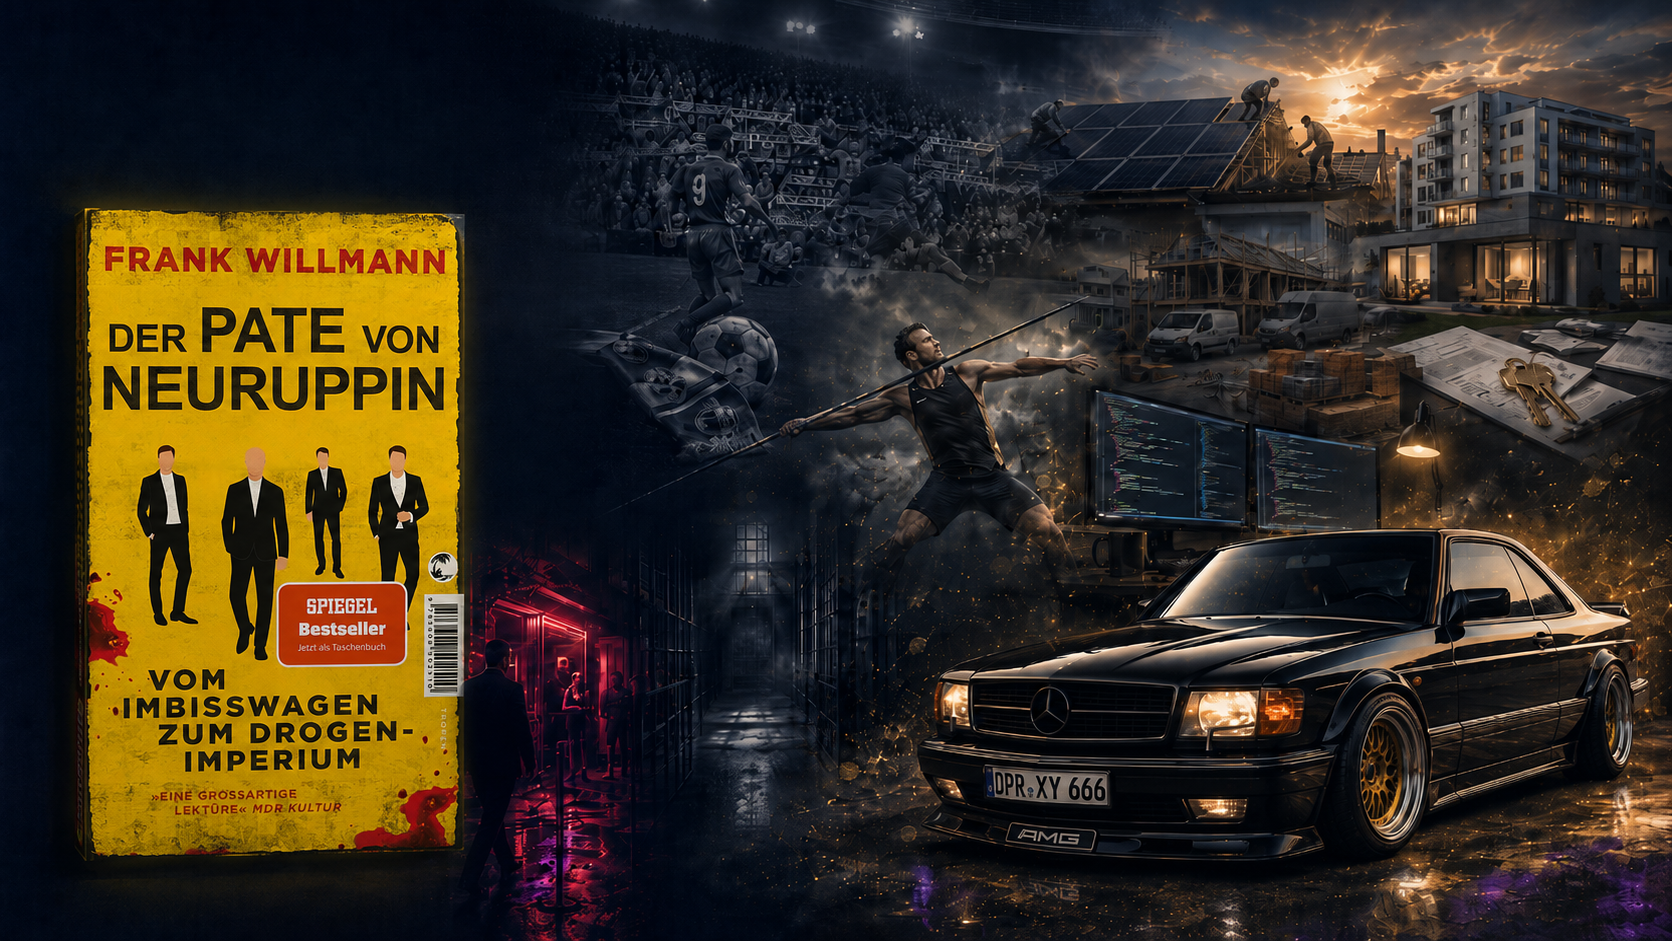
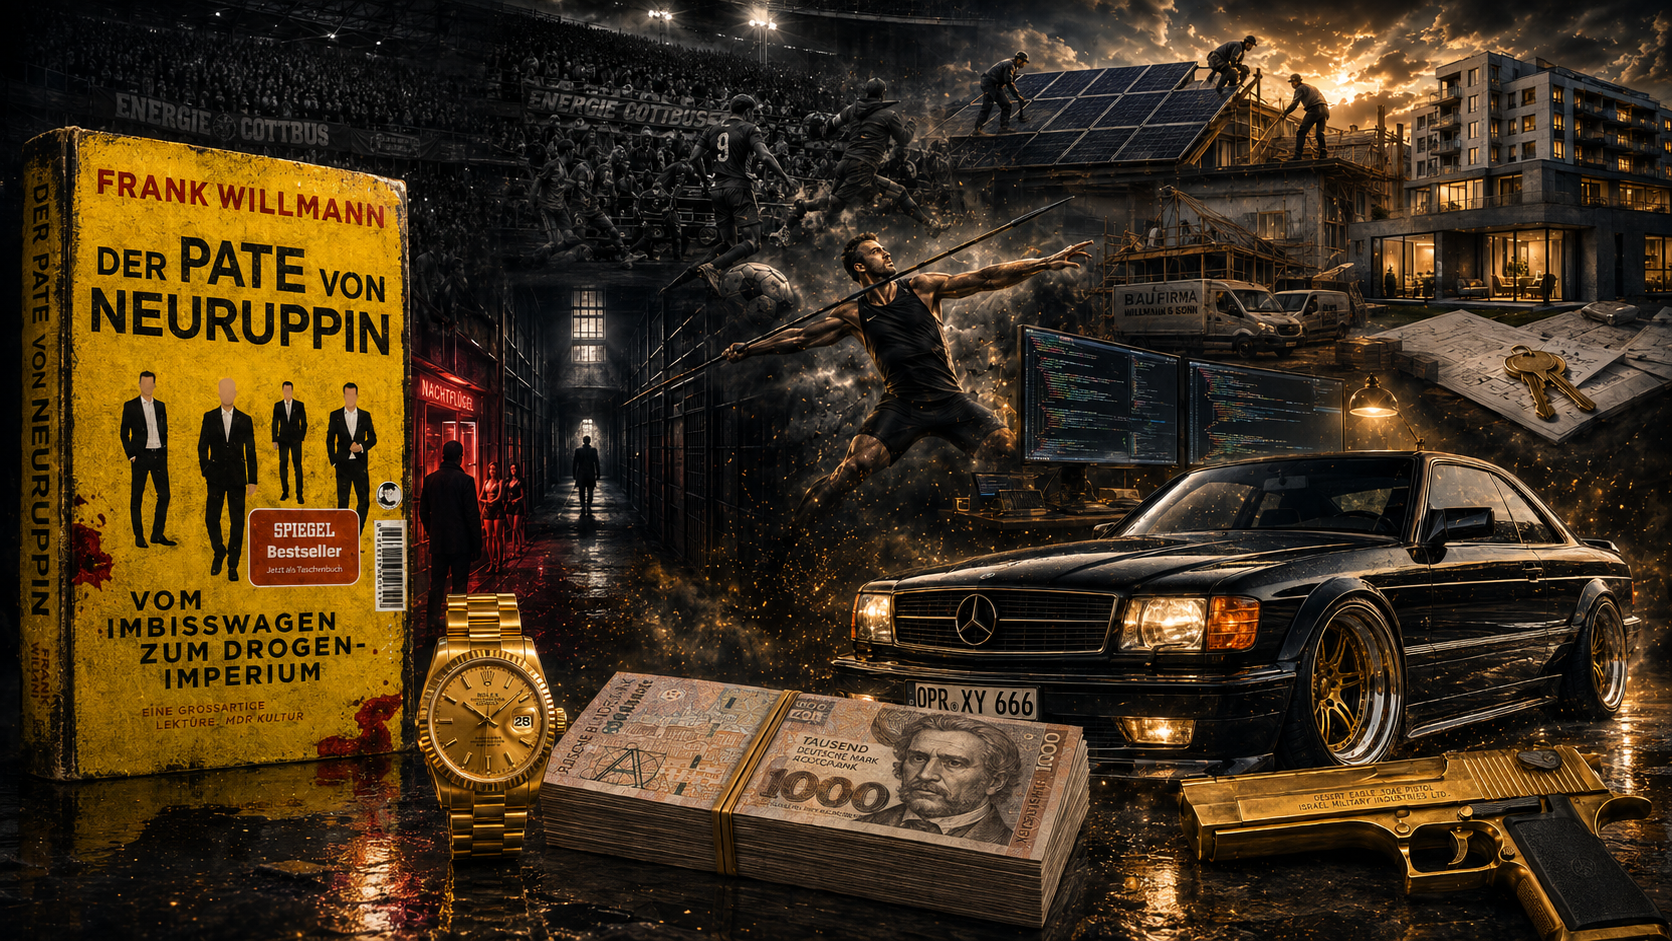
Update secret story image and content

diff --git a/src/App.jsx b/src/App.jsx
@@ -10,154 +10,193 @@ import AddEntryModal from "./components/AddEntryModal";
 import { loadEntries, saveEntries } from "./utils/storage";
 
 function DiaryPage() {
+  const defaultEntries = [
+    {
+      
+  id: 1,
+  title: "Die wahre Geschichte",
+  date: "2026-08-10",
+  image: "/images/wahre-geschichte-collage.png",
+  content:
+    "Mein Leben war nie geradlinig. Es gab Sport, Ehre, Ehrgeiz, Freiheit, Rückschläge, falsche Entscheidungen, Gefängnis, Luxus, schnelle Autos, Drogen, Alkohol, harte Arbeit, große Pläne und immer wieder einen Neuanfang.\n\nVom DDR-Fußball und der Leichtathletik mit Speerwerfen über das Nachtleben bis hin zu Jahren, in denen Luxus, Exzess und ein Leben am Limit eine große Rolle gespielt haben – jede dieser Stationen gehört zu meiner Geschichte. Später habe ich mit MK Solar, BMK Bauservice und BKP Immobilien eigene Unternehmen aufgebaut, Verantwortung übernommen, Erfolge erlebt und auch erfahren, wie schnell sich im Leben wieder alles verändern kann.\n\nHeute beginnt wieder ein völlig neues Kapitel: Programmieren, React, Webentwicklung und künstliche Intelligenz. Noch einmal etwas komplett Neues zu lernen und mich neu zu erfinden, gehört inzwischen genauso zu meinem Leben wie alles, was davor war.\n\nDieses Bild zeigt deshalb nicht nur Erinnerungen. Es zeigt Erfolge und Fehler, gute und schlechte Entscheidungen, Höhen und Tiefen – und vor allem eines: Egal wie oft das Leben mich zurückgeworfen hat, ich bin immer wieder aufgestanden.",
+  secret: true,
+},
+    {
+      id: 2,
+      title: "Der Tag, an dem ich nichts gemacht habe",
+      date: "2026-08-09",
+      image:
+        "https://images.unsplash.com/photo-1507525428034-b723cf961d3e",
+      content:
+        "Ich hatte einen vollen Plan für den Tag. Dann habe ich mich hingesetzt. Das war offenbar mein erster Fehler. Danach war plötzlich Abend.",
+    },
+    {
+      id: 3,
+      title: "Große Pläne. Umsetzung: morgen.",
+      date: "2026-08-08",
+      image:
+        "https://images.unsplash.com/photo-1456324504439-367cee3b3c32",
+      content:
+        "Heute hatte ich ungefähr 14 geniale Ideen. Davon habe ich 13 vergessen und die letzte auf morgen verschoben. Produktiver Tag.",
+    },
+    {
+      id: 4,
+      title: "Heute wollte ich nur kurz CSS ändern",
+      date: "2026-08-07",
+      image:
+        "https://images.unsplash.com/photo-1498050108023-c5249f4df085",
+      content:
+        "Der Plan war simpel: eine Farbe ändern und Feierabend. Drei Stunden später hatte ich die halbe Webseite neu gebaut und wusste nicht mehr, welche Farbe ich eigentlich ändern wollte.",
+    },
+    {
+      id: 5,
+      title: "Git sagte Konflikt",
+      date: "2026-08-06",
+      image:
+        "https://images.unsplash.com/photo-1516321318423-f06f85e504b3",
+      content:
+        "Git meldete einen Konflikt. Ich meldete ebenfalls einen Konflikt. Damit waren wir uns wenigstens in einem Punkt einig.",
+    },
+    {
+      id: 6,
+      title: "Der Bug war natürlich unschuldig",
+      date: "2026-08-05",
+      image:
+        "https://images.unsplash.com/photo-1461749280684-dccba630e2f6",
+      content:
+        "Zwei Stunden gesucht, sämtliche Dateien verdächtigt und kurz über einen Berufswechsel nachgedacht. Am Ende fehlte irgendwo ein einziges Zeichen.",
+    },
+    {
+      id: 7,
+      title: "Nur noch eine kleine Änderung …",
+      date: "2026-08-04",
+      image:
+        "https://images.unsplash.com/photo-1515879218367-8466d910aaa4",
+      content:
+        "Diesen Satz sollte man beim Programmieren eigentlich gesetzlich verbieten. Aus einer kleinen Änderung wurden sieben neue Ideen und drei neue Probleme.",
+    },
+    {
+      id: 8,
+      title: "Heute programmiere ich ohne KI",
+      date: "2026-08-03",
+      image:
+        "https://images.unsplash.com/photo-1677442136019-21780ecad995",
+      content:
+        "Der Vorsatz war stark. Die Motivation ebenfalls. Um 09:07 Uhr war dann allerdings schon die erste Frage an die KI raus.",
+    },
+    {
+      id: 9,
+      title: "Der Kaffee hat heute programmiert",
+      date: "2026-08-02",
+      image:
+        "https://images.unsplash.com/photo-1495474472287-4d71bcdd2085",
+      content:
+        "Ich möchte an dieser Stelle ausdrücklich klarstellen: Ich war lediglich für Tastatur und Maus zuständig. Die eigentliche Arbeit hat der Kaffee gemacht.",
+    },
+    {
+      id: 10,
+      title: "CSS macht, was CSS will",
+      date: "2026-08-01",
+      image:
+        "https://images.unsplash.com/photo-1507238691740-187a5b1d37b8",
+      content:
+        "Ich wollte eine Sache zentrieren. CSS wollte offenbar testen, wie belastbar unsere Beziehung inzwischen ist.",
+    },
+    {
+      id: 11,
+      title: "npm install und beten",
+      date: "2026-07-31",
+      image:
+        "https://images.unsplash.com/photo-1629654297299-c8506221ca97",
+      content:
+        "Es gibt viele professionelle Methoden in der Softwareentwicklung. Eine meiner zuverlässigsten ist weiterhin: npm install eingeben und hoffen.",
+    },
+    {
+      id: 12,
+      title: "Ich ändere wirklich nur diese eine Sache",
+      date: "2026-07-30",
+      image:
+        "https://images.unsplash.com/photo-1484417894907-623942c8ee29",
+      content:
+        "Berühmte letzte Worte. Wenig später waren fünf Dateien geändert und ich konnte mich nicht mehr daran erinnern, womit ich überhaupt angefangen hatte.",
+    },
+    {
+      id: 13,
+      title: "Warum funktioniert das jetzt?",
+      date: "2026-07-29",
+      image:
+        "https://images.unsplash.com/photo-1555066931-4365d14bab8c",
+      content:
+        "Ich habe nichts geändert. Wirklich nichts. Trotzdem funktioniert es plötzlich. Das macht mir ehrlich gesagt mehr Angst als der Fehler vorher.",
+    },
+    {
+      id: 14,
+      title: "Mein Code funktioniert!",
+      date: "2026-07-28",
+      image:
+        "https://images.unsplash.com/photo-1518770660439-4636190af475",
+      content:
+        "Niemand bewegt sich. Niemand klickt etwas an. Niemand aktualisiert irgendein Paket. Dieser Zustand muss konserviert werden.",
+    },
+    {
+      id: 15,
+      title: "Backup? Natürlich habe ich ein Backup",
+      date: "2026-07-27",
+      image:
+        "https://images.unsplash.com/photo-1544197150-b99a580bb7a8",
+      content:
+        "Zumindest glaube ich das. GitHub zählt doch als Backup, oder? Ich entscheide einfach mal: ja.",
+    },
+  ];
+
   const [entries, setEntries] = useState(() => {
     const savedEntries = loadEntries();
 
-    if (savedEntries) {
-      return savedEntries;
+    if (!savedEntries) {
+      return defaultEntries;
     }
 
-    return [
-      {
-        id: 1,
-        title: "Die wahre Geschichte",
-        date: "2026-08-10",
-        image: "/images/wahre-geschichte-collage.png",
-        content:
-          "Das ist meine wahre Geschichte.\n\nHier spiegelt sich mein Leben wider: Sport, Ehrgeiz, Rückschläge, Freiheit, Gefängnis, Autos, harte Arbeit, Unternehmen und ein kompletter Neuanfang.\n\nDDR-Fußballoberliga, Leichtathletik und Speerwerfen, Programmieren, das Nachtleben, Gefängnis, mein schwarzer Mercedes mit goldenen Tiefbettfelgen, MK Solar, BMK Bauservice und BKP Immobilien – all das gehört zu meinem Weg.\n\nDieses Bild steht für Stationen meines Lebens, für Fehler, Erfolge, harte Lektionen und dafür, dass ich immer wieder aufgestanden bin.",
-        secret: true,
-      },
-      {
-        id: 2,
-        title: "Der Tag, an dem ich nichts gemacht habe",
-        date: "2026-08-09",
-        image:
-          "https://images.unsplash.com/photo-1507525428034-b723cf961d3e",
-        content:
-          "Ich hatte einen vollen Plan für den Tag. Dann habe ich mich hingesetzt. Das war offenbar mein erster Fehler. Danach war plötzlich Abend.",
-      },
-      {
-        id: 3,
-        title: "Große Pläne. Umsetzung: morgen.",
-        date: "2026-08-08",
-        image:
-          "https://images.unsplash.com/photo-1456324504439-367cee3b3c32",
-        content:
-          "Heute hatte ich ungefähr 14 geniale Ideen. Davon habe ich 13 vergessen und die letzte auf morgen verschoben. Produktiver Tag.",
-      },
-      {
-        id: 4,
-        title: "Heute wollte ich nur kurz CSS ändern",
-        date: "2026-08-07",
-        image:
-          "https://images.unsplash.com/photo-1498050108023-c5249f4df085",
-        content:
-          "Der Plan war simpel: eine Farbe ändern und Feierabend. Drei Stunden später hatte ich die halbe Webseite neu gebaut und wusste nicht mehr, welche Farbe ich eigentlich ändern wollte.",
-      },
-      {
-        id: 5,
-        title: "Git sagte Konflikt",
-        date: "2026-08-06",
-        image:
-          "https://images.unsplash.com/photo-1516321318423-f06f85e504b3",
-        content:
-          "Git meldete einen Konflikt. Ich meldete ebenfalls einen Konflikt. Damit waren wir uns wenigstens in einem Punkt einig.",
-      },
-      {
-        id: 6,
-        title: "Der Bug war natürlich unschuldig",
-        date: "2026-08-05",
-        image:
-          "https://images.unsplash.com/photo-1461749280684-dccba630e2f6",
-        content:
-          "Zwei Stunden gesucht, sämtliche Dateien verdächtigt und kurz über einen Berufswechsel nachgedacht. Am Ende fehlte irgendwo ein einziges Zeichen.",
-      },
-      {
-        id: 7,
-        title: "Nur noch eine kleine Änderung …",
-        date: "2026-08-04",
-        image:
-          "https://images.unsplash.com/photo-1515879218367-8466d910aaa4",
-        content:
-          "Diesen Satz sollte man beim Programmieren eigentlich gesetzlich verbieten. Aus einer kleinen Änderung wurden sieben neue Ideen und drei neue Probleme.",
-      },
-      {
-        id: 8,
-        title: "Heute programmiere ich ohne KI",
-        date: "2026-08-03",
-        image:
-          "https://images.unsplash.com/photo-1677442136019-21780ecad995",
-        content:
-          "Der Vorsatz war stark. Die Motivation ebenfalls. Um 09:07 Uhr war dann allerdings schon die erste Frage an die KI raus.",
-      },
-      {
-        id: 9,
-        title: "Der Kaffee hat heute programmiert",
-        date: "2026-08-02",
-        image:
-          "https://images.unsplash.com/photo-1495474472287-4d71bcdd2085",
-        content:
-          "Ich möchte an dieser Stelle ausdrücklich klarstellen: Ich war lediglich für Tastatur und Maus zuständig. Die eigentliche Arbeit hat der Kaffee gemacht.",
-      },
-      {
-        id: 10,
-        title: "CSS macht, was CSS will",
-        date: "2026-08-01",
-        image:
-          "https://images.unsplash.com/photo-1507238691740-187a5b1d37b8",
-        content:
-          "Ich wollte eine Sache zentrieren. CSS wollte offenbar testen, wie belastbar unsere Beziehung inzwischen ist.",
-      },
-      {
-        id: 11,
-        title: "npm install und beten",
-        date: "2026-07-31",
-        image:
-          "https://images.unsplash.com/photo-1629654297299-c8506221ca97",
-        content:
-          "Es gibt viele professionelle Methoden in der Softwareentwicklung. Eine meiner zuverlässigsten ist weiterhin: npm install eingeben und hoffen.",
-      },
-      {
-        id: 12,
-        title: "Ich ändere wirklich nur diese eine Sache",
-        date: "2026-07-30",
-        image:
-          "https://images.unsplash.com/photo-1484417894907-623942c8ee29",
-        content:
-          "Berühmte letzte Worte. Wenig später waren fünf Dateien geändert und ich konnte mich nicht mehr daran erinnern, womit ich überhaupt angefangen hatte.",
-      },
-      {
-        id: 13,
-        title: "Warum funktioniert das jetzt?",
-        date: "2026-07-29",
-        image:
-          "https://images.unsplash.com/photo-1555066931-4365d14bab8c",
-        content:
-          "Ich habe nichts geändert. Wirklich nichts. Trotzdem funktioniert es plötzlich. Das macht mir ehrlich gesagt mehr Angst als der Fehler vorher.",
-      },
-      {
-        id: 14,
-        title: "Mein Code funktioniert!",
-        date: "2026-07-28",
-        image:
-          "https://images.unsplash.com/photo-1518770660439-4636190af475",
-        content:
-          "Niemand bewegt sich. Niemand klickt etwas an. Niemand aktualisiert irgendein Paket. Dieser Zustand muss konserviert werden.",
-      },
-      {
-        id: 15,
-        title: "Backup? Natürlich habe ich ein Backup",
-        date: "2026-07-27",
-        image:
-          "https://images.unsplash.com/photo-1544197150-b99a580bb7a8",
-        content:
-          "Zumindest glaube ich das. GitHub zählt doch als Backup, oder? Ich entscheide einfach mal: ja.",
-      },
-    ];
+    const savedEntriesById = new Map(
+      savedEntries.map((entry) => [entry.id, entry]),
+    );
+
+    const mergedEntries = defaultEntries.map((defaultEntry) => {
+      const savedEntry = savedEntriesById.get(defaultEntry.id);
+
+      if (defaultEntry.id === 1) {
+        return {
+          ...savedEntry,
+          ...defaultEntry,
+        };
+      }
+
+      if (savedEntry) {
+        return {
+          ...defaultEntry,
+          ...savedEntry,
+        };
+      }
+
+      return defaultEntry;
+    });
+
+    const customEntries = savedEntries.filter(
+      (savedEntry) =>
+        !defaultEntries.some(
+          (defaultEntry) => defaultEntry.id === savedEntry.id,
+        ),
+    );
+
+    return [...customEntries, ...mergedEntries].sort(
+      (a, b) => new Date(b.date) - new Date(a.date),
+    );
   });
 
-  const [selectedEntry, setSelectedEntry] = useState(null);
+  const [selectedEntryId, setSelectedEntryId] = useState(null);
   const [showAddModal, setShowAddModal] = useState(false);
+
+  const selectedEntry =
+    entries.find((entry) => entry.id === selectedEntryId) ?? null;
 
   useEffect(() => {
     saveEntries(entries);
@@ -208,14 +247,14 @@ function DiaryPage() {
 
           <EntryList
             entries={entries}
-            onEntryClick={setSelectedEntry}
+            onEntryClick={(entry) => setSelectedEntryId(entry.id)}
           />
         </section>
       </main>
 
       <ViewEntryModal
         entry={selectedEntry}
-        onClose={() => setSelectedEntry(null)}
+        onClose={() => setSelectedEntryId(null)}
       />
 
       <AddEntryModal
